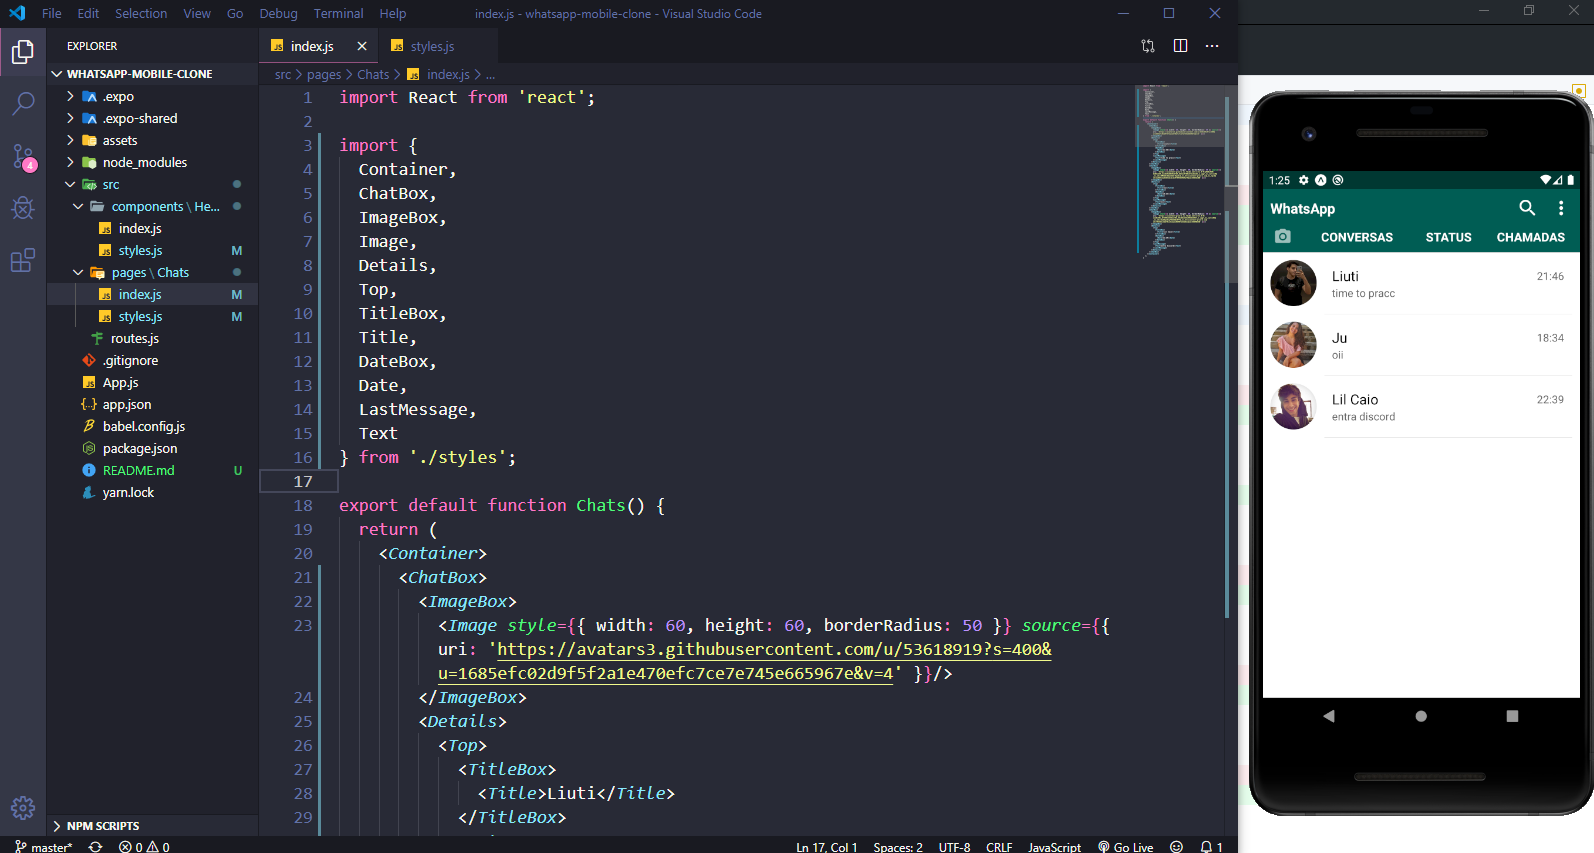
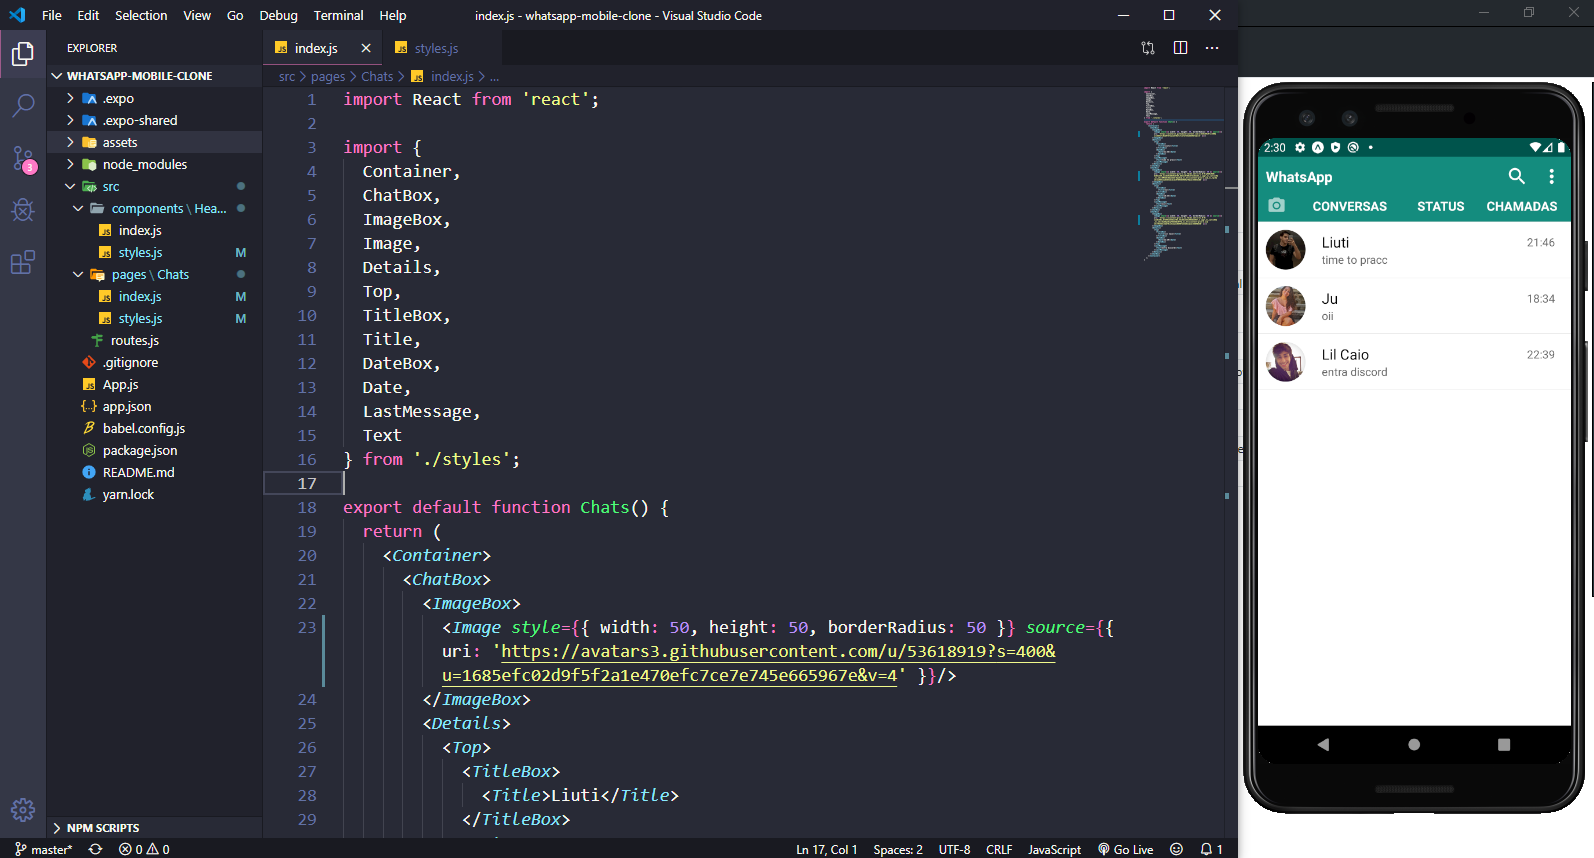
Updating screenshot

diff --git a/src/pages/Chats/index.js b/src/pages/Chats/index.js
@@ -20,7 +20,7 @@ export default function Chats() {
     <Container>
       <ChatBox>
         <ImageBox>
-          <Image style={{ width: 60, height: 60, borderRadius: 50 }} source={{ uri: 'https://avatars3.githubusercontent.com/u/53618919?s=400&u=1685efc02d9f5f2a1e470efc7ce7e745e665967e&v=4' }}/>
+          <Image style={{ width: 50, height: 50, borderRadius: 50 }} source={{ uri: 'https://avatars3.githubusercontent.com/u/53618919?s=400&u=1685efc02d9f5f2a1e470efc7ce7e745e665967e&v=4' }}/>
         </ImageBox>
         <Details>
           <Top>
@@ -38,7 +38,7 @@ export default function Chats() {
       </ChatBox>
       <ChatBox>
         <ImageBox>
-          <Image style={{ width: 60, height: 60, borderRadius: 50 }} source={{ uri: 'https://scontent-gru1-1.xx.fbcdn.net/v/t1.0-9/p960x960/62041359_2118392804926769_8632197001473163264_o.jpg?_nc_cat=110&_nc_ohc=HM5d6vDdwIAAX-Kqw6z&_nc_ht=scontent-gru1-1.xx&_nc_tp=6&oh=ea88512a83842bcbcb19709565969af9&oe=5ED4A1BB' }}/>
+          <Image style={{ width: 50, height: 50, borderRadius: 50 }} source={{ uri: 'https://scontent-gru1-1.xx.fbcdn.net/v/t1.0-9/p960x960/62041359_2118392804926769_8632197001473163264_o.jpg?_nc_cat=110&_nc_ohc=HM5d6vDdwIAAX-Kqw6z&_nc_ht=scontent-gru1-1.xx&_nc_tp=6&oh=ea88512a83842bcbcb19709565969af9&oe=5ED4A1BB' }}/>
         </ImageBox>
         <Details>
           <Top>
@@ -56,7 +56,7 @@ export default function Chats() {
       </ChatBox>
       <ChatBox>
         <ImageBox>
-          <Image style={{ width: 60, height: 60, borderRadius: 50 }} source={{ uri: 'https://scontent-gru2-2.xx.fbcdn.net/v/t1.0-9/11201501_875992355821703_5518613551995835957_n.jpg?_nc_cat=106&_nc_ohc=6yUDq2OJpFEAX8Q1NYY&_nc_ht=scontent-gru2-2.xx&oh=f93563c3dbf0c151ea2106907e33b821&oe=5ED9B35B' }}/>
+          <Image style={{ width: 50, height: 50, borderRadius: 50 }} source={{ uri: 'https://scontent-gru2-2.xx.fbcdn.net/v/t1.0-9/11201501_875992355821703_5518613551995835957_n.jpg?_nc_cat=106&_nc_ohc=6yUDq2OJpFEAX8Q1NYY&_nc_ht=scontent-gru2-2.xx&oh=f93563c3dbf0c151ea2106907e33b821&oe=5ED9B35B' }}/>
         </ImageBox>
         <Details>
           <Top>

diff --git a/src/pages/Chats/styles.js b/src/pages/Chats/styles.js
@@ -4,29 +4,25 @@ import styled from 'styled-components/native';
 export const Container = styled.View`
   flex: 1;
   background: #fff;
-  /* padding: 10px; */
 `;
 
 export const ChatBox = styled.View`
   flex-direction: row;
+  border-bottom-color: #ccc;
+  border-bottom-width: ${StyleSheet.hairlineWidth}px;
 `;
 
 export const ImageBox = styled.View`
-  /* border-radius: 50%; */
   padding: 10px 10px;
 `;
 
-export const Image = styled.Image`
-  
-`;
+export const Image = styled.Image``;
 
 export const Details = styled.View`
   flex: 1;
   padding: 0 10px;
   margin-right: 10px;
   justify-content: center;
-  border-bottom-color: #ccc;
-  border-bottom-width: ${StyleSheet.hairlineWidth}px;
 `;
 
 export const Top = styled.View`
@@ -47,9 +43,7 @@ export const Date = styled.Text`
   color: #666;
 `;
 
-export const LastMessage = styled.View`
-  /* flex: 1; */
-`;
+export const LastMessage = styled.View``;
 
 export const Text = styled.Text`
   color: #666;

diff --git a/src/components/Header/styles.js b/src/components/Header/styles.js
@@ -2,8 +2,8 @@ import { StatusBar } from 'react-native'
 import styled from 'styled-components/native';
 
 export const Container = styled.View`
-  /* background: #128C7E; */
-  background: #075E54;
+  background: #128C7E;
+  /* background: #075E54; */
   padding-top: ${StatusBar.currentHeight}px;
 `;
 
@@ -32,7 +32,6 @@ export const Tabs = styled.View`
   flex-direction: row;
   justify-content: space-around;
   align-items: center;
-  /* padding-bottom: 8px; */
 `;
 
 export const CameraTab = styled.View`
